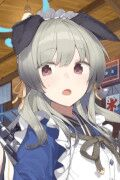
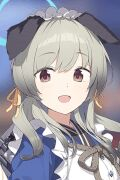
update photo and no longer npc: umika

diff --git a/src/js/data/2024-01-15.js b/src/js/data/2024-01-15.js
@@ -387,6 +387,13 @@ dataSet[dataSetVersion].characterData = [
     }
   },
   {
+    name: "Satohama Umika",
+    img: "umika.jpg",
+    opts: {
+      school: ["Hyakkiyako"]
+    }
+  },
+  {
     name: "Kadenokouji Yukari",
     img: "yukari.jpg",
     opts: {
@@ -430,14 +437,6 @@ dataSet[dataSetVersion].characterData = [
   {
     name: "Kuzunoha",
     img: "kuzunoha.jpg",
-    opts: {
-      school: ["Hyakkiyako"],
-      NPC: true
-    }
-  },
-  {
-    name: "Umika",
-    img: "umika.jpg",
     opts: {
       school: ["Hyakkiyako"],
       NPC: true
